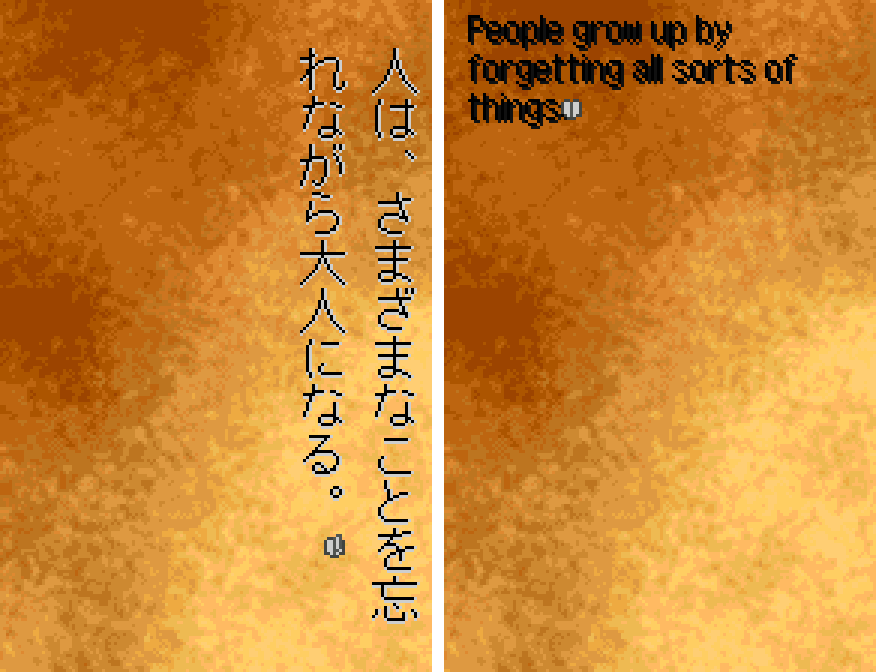
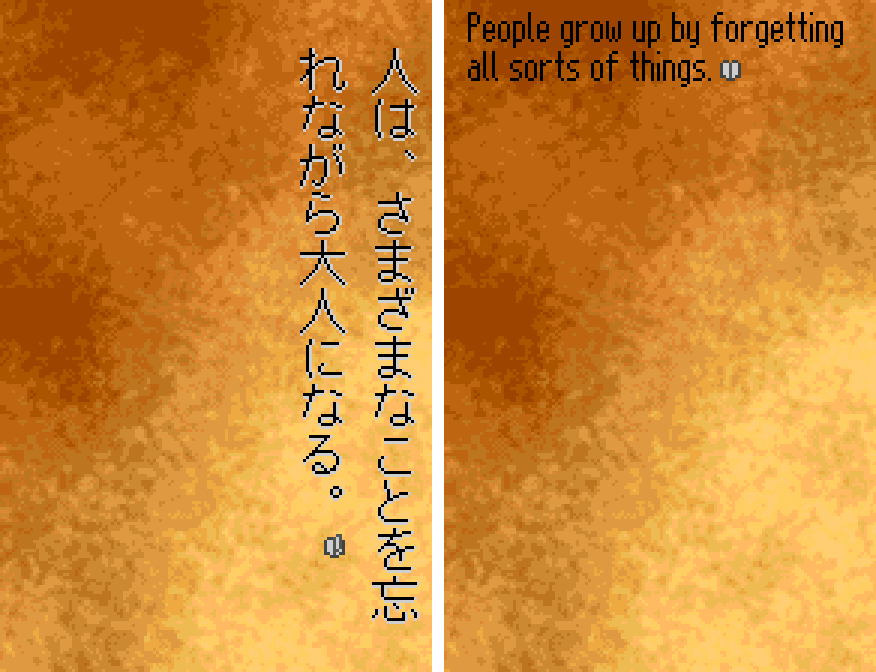
Another Heaven 1.1: easier-to-read font, bracketed speakers, Index confirm box, wording; page, images, catalog row

Changed region(s): [[0.524, 0.0, 0.9863, 0.1875]]

diff --git a/games/another-heaven/README.md b/games/another-heaven/README.md
@@ -1,4 +1,4 @@
-# Another Heaven: Memory of those Days (WonderSwan Color) - AI English translation patch v1.0
+# Another Heaven: Memory of those Days (WonderSwan Color) - AI English translation patch v1.1
 
 **Another Heaven ~memory of those days~** (アナザヘヴン 〜memory of those days〜) is a horror sound novel for the WonderSwan Color by Omega Micott and D's Garage 21, licensed by Bandai and released only in Japan in December 2000. It is a tie-in to Joji Iida's film *Another Heaven* (2000): while the film's "Mad Cook" murders shake Tokyo, a second killer, the Pyromaniac, starts burning men from the inside out. You are Koichiro Hasegawa, a young police sergeant teamed with his old classmate, Lieutenant Natsuko Nishitani, and between crime scenes you trade e-mail on your phone with a crime-buff informant and with Makoto, a shy friend from a mailing list. Read the story, answer the mails, make the choices, and follow its many routes and endings on the route chart. This patch translates it into English.
 
@@ -7,9 +7,9 @@
 **What's translated**
 
 * The whole script: every page of narration and dialogue (over 6,000 pages), the 223 e-mails on the phone, all 103 choices, every route and ending, the prologue, the attract demo and the Bonus scenario.
-* Speaker names, the "Day" cards, the chapter names on the route chart (Index) and its completion label, the save notebooks and the START menu notebook, Options, Ringtone and Phone Model, the boot menu (mono mode, erase save) and the save-and-quit message.
+* Speaker names, the "Day" cards, the chapter names on the route chart (Index), its completion label and its "Is this OK? / Move / Cancel" box, the save notebooks and the START menu notebook, Options, Ringtone and Phone Model, the boot menu (mono mode, erase save) and the save-and-quit message.
 * The pictures with words in them, redrawn in their original style: the title logo (ANOTHER HEAVEN), the copyright line, the title menu (colour and mono mode), the handwritten notebooks, the phone frames and button guide, the staff credits, and every WonderGate screen.
-* English text is written left to right in the original's text box instead of the vertical Japanese columns.
+* English text is written left to right in the original's text box instead of the vertical Japanese columns. Speaker names are shown in brackets, [Natsuko], the way the Japanese frames them in 【】.
 
 **Names and terms**
 
@@ -21,7 +21,7 @@ The film's detectives and places keep the film's names (Hayase, Tobitaka, Morozu
 * A separate, independent Claude reviewer read the whole game against the Japanese; its findings were verified and fixed.
 * On screen: every page of the script was drawn in the game's own text box with every character logged (6,234 pages, no Japanese, nothing cut off, e-mails scrolled to the end); a random walk through menus and story in colour and mono mode looking for any Japanese that reached the screen (none; the same check finds it at once on the original); automated play-throughs to three different endings; the full staff roll; the attract demo from power-on; and the menus compared with the Japanese, enlarged, for placement.
 * Online: the WonderGate ranking was played for real against a private copy of Swan Revival's server on both the original and the English ROM, including full-length names and the error screens. The requests, the replies and the hang-up are the same on both.
-* The judgement calls (names, terms, the darker content, wordplay, shortened choices, the redrawn pictures) were listed with the Japanese and the options, and I decided all 72 by hand over three rounds.
+* The judgement calls (names, terms, the darker content, wordplay, shortened choices, the redrawn pictures) were listed with the Japanese and the options, and I decided all 72 by hand over three rounds. Version 1.1 comes from my own reports after playing 1.0 (the font, the speaker brackets, an untranslated box, wording), and was checked again the same way: every page drawn, every e-mail scrolled to the end, and the random walk for Japanese.
 
 **WonderGate**
 
@@ -29,6 +29,7 @@ The game's WonderGate option uploads your best quick-solve time and shows the na
 
 **Changelog**
 
+* **v1.1**: easier-to-read story text: a narrower font without the dark shadow behind the letters. Speaker names are shown in brackets like the Japanese, [Natsuko], so it is clearer who is talking. The page-turn cursor no longer covers the last punctuation mark of a line. The route chart's "Is this OK? / Move / Cancel" box (when you move to a chapter from the Index, or back out of it) is now in English. 91 lines reworded where the English read awkwardly (for example "looked the room over", not "licked").
 * **v1.0**: first release.
 
 **Sources consulted**
@@ -36,7 +37,7 @@ The game's WonderGate option uploads your best quick-solve time and shows the na
 * Japanese text: the WonderSwan Color ROM itself.
 * Names: Joji Iida's film *Another Heaven* (2000) and the TV series *Another Heaven: Eclipse*.
 * WonderGate behaviour: the game's code and Swan Revival's notes on this game.
-* Lettering: a 12-dot proportional font derived from Shinonome (public domain) for the text; Kalam and Crimson Text (SIL Open Font License) for the redrawn pictures.
+* Lettering: a narrow 12-dot proportional font drawn for this project for the text (since 1.1); the 1.0 font, derived from Shinonome (public domain), for a few symbols and for the words lettered into menu pictures; Kalam and Crimson Text (SIL Open Font License) for the redrawn pictures.
 
 **Images** (original on the left, English on the right)
 
@@ -96,16 +97,20 @@ The game's WonderGate option uploads your best quick-solve time and shows the na
 
    ![Staff credits](images/14-credits.png)
 
+15. The route chart's confirm box
+
+   ![The route chart's confirm box](images/15-index-confirm.png)
+
 
 **How to patch**
 
-Apply `another-heaven-en-1.0.bps` to the Japanese ROM "Another Heaven - Memory of those Days (Japan)" (CRC32 D7A0AB74) in your browser with the [Swan Revival patcher](https://swanrevival.com/patcher/), or with Floating IPS, beat or ROM Patcher JS. The result should be CRC32 1B7EF909.
+Apply `another-heaven-en-1.1.bps` to the Japanese ROM "Another Heaven - Memory of those Days (Japan)" (CRC32 D7A0AB74) in your browser with the [Swan Revival patcher](https://swanrevival.com/patcher/), or with Floating IPS, beat or ROM Patcher JS. The result should be CRC32 6E0D789C (SHA-1 0974ad97e90f9782aadb2231cdba86147c0dc9dd).
 
 The patched ROM stays 4 MB. It's a WonderSwan Color game, so keep the .wsc extension.
 
 You must provide your own copy of the original Japanese game to apply it.
 
-**Download:** `another-heaven-en-1.0.bps` on the [release page](https://github.com/PokemonGoDB/wonderswan-english-patches/releases/tag/another-heaven-v1.0).
+**Download:** `another-heaven-en-1.1.bps` on the [release page](https://github.com/PokemonGoDB/wonderswan-english-patches/releases/tag/another-heaven-v1.1).
 
 **Known issues**
 

diff --git a/README.md b/README.md
@@ -34,7 +34,7 @@ English translation patches for Japanese-only WonderSwan and WonderSwan Color ga
 | [From TV Animation One Piece: Mezase Kaizoku Ou!](games/kaizoku-ou/README.md) (2 MB patched ROM; link play works with Japanese cartridges) | WonderSwan | [1.0](https://github.com/PokemonGoDB/wonderswan-english-patches/releases/tag/kaizoku-ou-v1.0) | BPS | `F2E362B8` | `30F6CAAF` |
 | [From TV Animation One Piece: Niji no Shima Densetsu](games/one-piece-niji/README.md) (8 MB patched ROM; + Debug Mode edition) | WonderSwan Color | [1.0](https://github.com/PokemonGoDB/wonderswan-english-patches/releases/tag/one-piece-niji-v1.0) | BPS | `427056C4` | `AD5D5163` (Debug Mode `42912FF4`) |
 | [Pocket Fighter](games/pocket-fighter/README.md) (+ Extras Unlocked edition; WonderGate works with Swan Revival, free) | WonderSwan | [1.0](https://github.com/PokemonGoDB/wonderswan-english-patches/releases/tag/pocket-fighter-v1.0) | BPS | `35361250` | `A20ED743` (Extras Unlocked `624C7B55`) |
-| [Another Heaven: Memory of those Days](games/another-heaven/README.md) (horror sound novel; WonderGate works with Swan Revival) | WonderSwan Color | [1.0](https://github.com/PokemonGoDB/wonderswan-english-patches/releases/tag/another-heaven-v1.0) | BPS | `D7A0AB74` | `1B7EF909` |
+| [Another Heaven: Memory of those Days](games/another-heaven/README.md) (horror sound novel; WonderGate works with Swan Revival) | WonderSwan Color | [1.1](https://github.com/PokemonGoDB/wonderswan-english-patches/releases/tag/another-heaven-v1.1) | BPS | `D7A0AB74` | `6E0D789C` |
 | [MobileWonderGate](games/mobile-wondergate/README.md) (the Mobile WonderGate adapter's browser and mailer; online with Swan Revival) | WonderSwan | [1.0](https://github.com/PokemonGoDB/wonderswan-english-patches/releases/tag/mobile-wondergate-v1.0) | BPS | `80DE367D` | `6A88E21E` |
 | [GunPey EX](games/gunpey-ex/README.md) (already English; the WonderGate screens, keypad and Color-only warning translated; WonderGate works with Swan Revival) | WonderSwan Color | [1.0](https://github.com/PokemonGoDB/wonderswan-english-patches/releases/tag/gunpey-ex-v1.0) | BPS | `0C9CB12C` | `16998248` |
 | [Lode Runner for WonderSwan](games/lode-runner/README.md) (+ Swan Revival Edition: stage sharing, English and Japanese-text) | WonderSwan | [1.0](https://github.com/PokemonGoDB/wonderswan-english-patches/releases/tag/lode-runner-v1.0) | BPS | `E407CABF` | `A88BABE0` (Swan Revival Edition `2EEB7D2A`, Japanese-text `1425CEDE`) |
